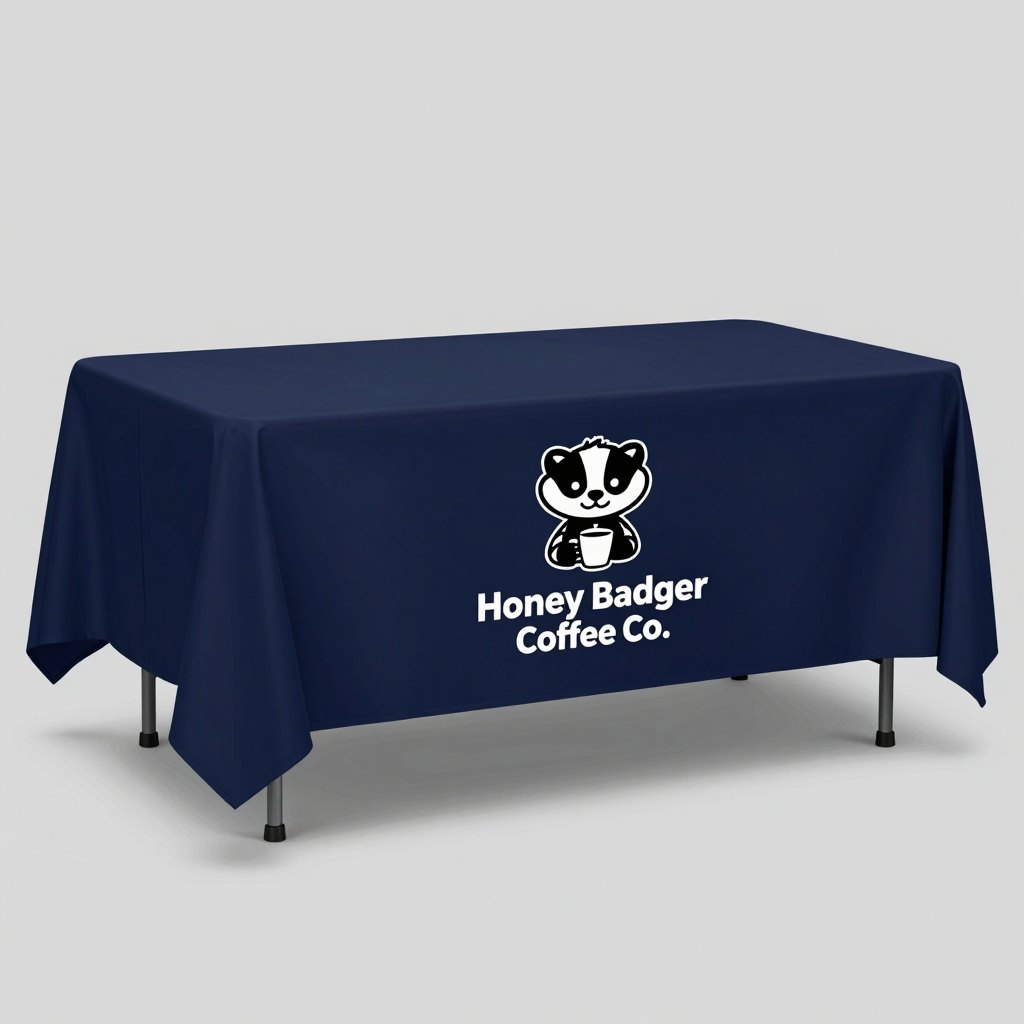
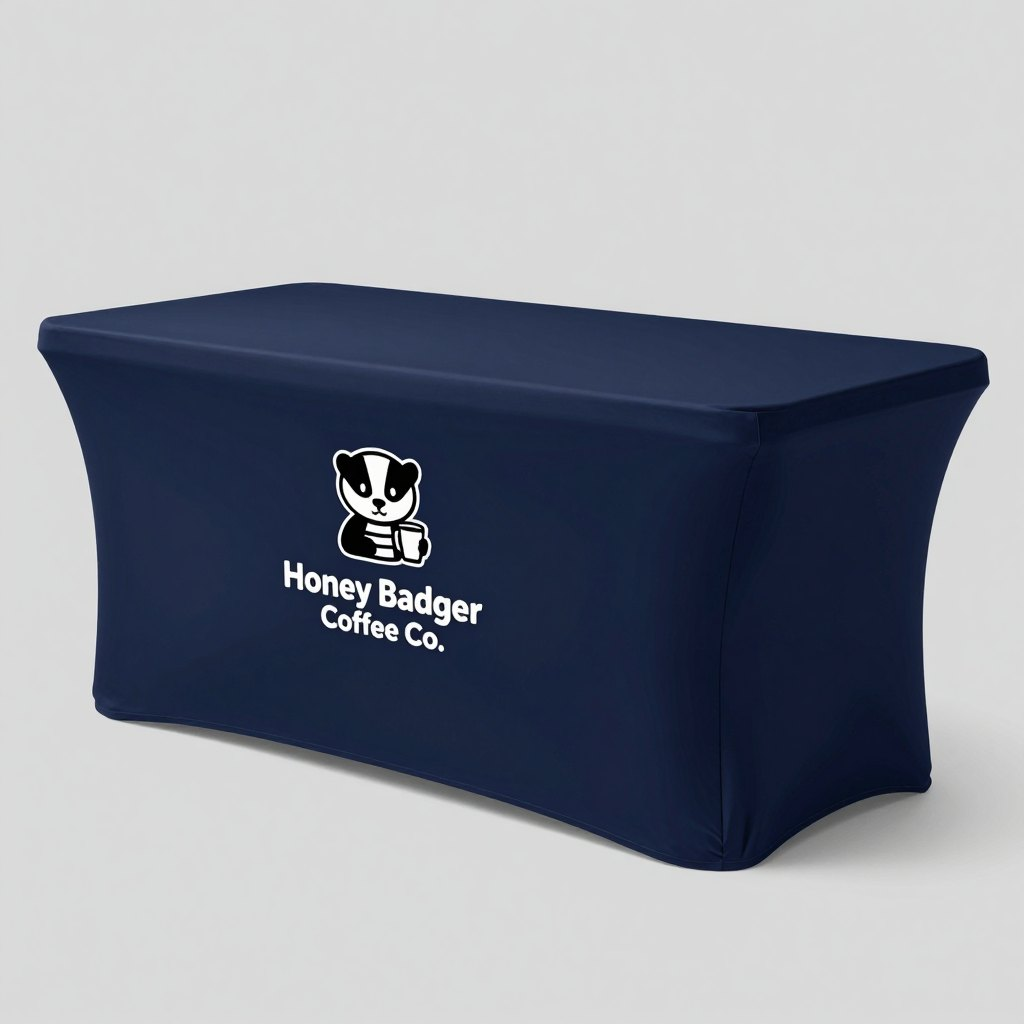
Replace table cover photo with a true fitted cover (#76)
* Replace table cover photo with a true fitted cover

The p-09-table-throw photo was a loose draped throw, not the fitted 6 ft
cover the brief asked for. Regenerate it as a tailored navy stretch-fitted
cover with a correctly spelled "Honey Badger Coffee Co." logo on the front,
on a plain light gray studio background (1024 jpg and webp, 400 sm webp).

Put the fitted wording back in the "Sample design" caption and the hero alt
text, and rebuild the pages that use the photo.

* Table cover photo: caption says stretch cover

The new photo shows a spandex stretch cover (snug top, flared legs), not a fitted cover, so the caption and alt text
say stretch cover and note that throws and fitted covers are also available.

Claude-Session: https://claude.ai/code/session_01MKoDUcjppXBpHwgJhSGGeU

---------

diff --git a/event-booth-bundles/index.html b/event-booth-bundles/index.html
@@ -77,7 +77,7 @@
   <p class="total"><span>Bought separately</span><span>$891</span></p>
   <div class="cta-row"><a class="btn btn-ink btn-sm" href="/?product=Something+else&amp;details=Outdoor+vendor+booth+bundle%3A+10%C3%9710+canopy+tent%2C+printed+top+and+valance%3B+6+ft+fitted+table+cover%3B+10.5+ft+feather+flag+with+ground+spike%3B+2%C3%974+ft+vinyl+banner+with+grommets#quote">Quote this bundle</a></div></div>
 </article><article class="bundle" id="indoor">
-  <div class="card-img sq"><picture><source srcset="/assets/img/p-09-table-throw-sm.webp 400w, /assets/img/p-09-table-throw.webp 1024w" sizes="(max-width: 640px) 92vw, (max-width: 1000px) 46vw, 360px" type="image/webp"><img src="/assets/img/p-09-table-throw.jpg" alt="Sample design: navy table throw on a 6 ft table with a Honey Badger Coffee Co. logo on the front" width="1024" height="1024" loading="lazy" decoding="async"></picture></div>
+  <div class="card-img sq"><picture><source srcset="/assets/img/p-09-table-throw-sm.webp 400w, /assets/img/p-09-table-throw.webp 1024w" sizes="(max-width: 640px) 92vw, (max-width: 1000px) 46vw, 360px" type="image/webp"><img src="/assets/img/p-09-table-throw.jpg" alt="Sample design: navy 6 ft stretch table cover with a Honey Badger Coffee Co. logo on the front" width="1024" height="1024" loading="lazy" decoding="async"></picture></div>
   <div class="bundle-body"><h2>Indoor expo booth</h2><p>For trade shows, career fairs, conferences and indoor expos: a sleek stretch table cover, a deluxe pull-up banner, a tabletop sign and a flag on a cross base.</p>
   <ul><li><a href="/table-throws/#order">8 ft stretch spandex table cover</a><b>$239</b></li><li><a href="/retractable-banners/#order">33×81 deluxe retractable banner, wide base</a><b>$149</b></li><li><a href="/tabletop-retractable-banners/#order">11.5×17.5 tabletop retractable banner</a><b>$69</b></li><li><a href="/feather-flags/#order">10.5 ft feather flag with cross base</a><b>$139</b></li></ul>
   <p class="total"><span>Bought separately</span><span>$596</span></p>

diff --git a/shop/index.html b/shop/index.html
@@ -101,7 +101,7 @@
   <div class="card-body"><h3><a href="/step-and-repeat-backdrops/">Step &amp; Repeat Backdrop</a></h3><p>8×8 or 10×8 with stand and case.</p><span class="price"><small>from</small> $419<small class="unit"> with stand</small></span>
   <div class="shop-btns"><a class="btn btn-y btn-sm" href="/step-and-repeat-backdrops/#order" aria-label="Start my order: Step &amp; Repeat Backdrop">Start my order</a><a class="more" href="/step-and-repeat-backdrops/">Details</a></div></div>
 </article><article class="card shop-card">
-  <a class="card-img" href="/table-throws/" tabindex="-1" aria-hidden="true"><picture><source srcset="/assets/img/p-09-table-throw-sm.webp 400w, /assets/img/p-09-table-throw.webp 1024w" sizes="(max-width: 480px) 92vw, (max-width: 800px) 46vw, (max-width: 1100px) 30vw, 270px" type="image/webp"><img src="/assets/img/p-09-table-throw.jpg" alt="Sample design: navy table throw on a 6 ft table with a Honey Badger Coffee Co. logo on the front" width="1024" height="1024" loading="lazy" decoding="async"></picture></a>
+  <a class="card-img" href="/table-throws/" tabindex="-1" aria-hidden="true"><picture><source srcset="/assets/img/p-09-table-throw-sm.webp 400w, /assets/img/p-09-table-throw.webp 1024w" sizes="(max-width: 480px) 92vw, (max-width: 800px) 46vw, (max-width: 1100px) 30vw, 270px" type="image/webp"><img src="/assets/img/p-09-table-throw.jpg" alt="Sample design: navy 6 ft stretch table cover with a Honey Badger Coffee Co. logo on the front" width="1024" height="1024" loading="lazy" decoding="async"></picture></a>
   <div class="card-body"><h3><a href="/table-throws/">Table Throw</a></h3><p>Throws, fitted or stretch covers for 6 or 8 ft tables.</p><span class="price"><small>from</small> $119<small class="unit"> each</small></span>
   <div class="shop-btns"><a class="btn btn-y btn-sm" href="/table-throws/#order" aria-label="Start my order: Table Throw">Start my order</a><a class="more" href="/table-throws/">Details</a></div></div>
 </article><article class="card shop-card">

diff --git a/retractable-banners/index.html b/retractable-banners/index.html
@@ -155,7 +155,7 @@
   <div class="card-body"><h3>Trade Show Booth Kit</h3>
   <div class="card-foot"><span class="price"><small>from</small> $339<small class="unit"> kit</small></span><span class="go">Sizes &amp; details <span aria-hidden="true">→</span></span></div></div>
 </a><a class="card" href="/table-throws/">
-  <div class="card-img sq"><picture><source srcset="/assets/img/p-09-table-throw-sm.webp 400w, /assets/img/p-09-table-throw.webp 1024w" sizes="(max-width: 760px) 46vw, (max-width: 1180px) 30vw, 260px" type="image/webp"><img src="/assets/img/p-09-table-throw.jpg" alt="Sample design: navy table throw on a 6 ft table with a Honey Badger Coffee Co. logo on the front" width="1024" height="1024" loading="lazy" decoding="async"></picture></div>
+  <div class="card-img sq"><picture><source srcset="/assets/img/p-09-table-throw-sm.webp 400w, /assets/img/p-09-table-throw.webp 1024w" sizes="(max-width: 760px) 46vw, (max-width: 1180px) 30vw, 260px" type="image/webp"><img src="/assets/img/p-09-table-throw.jpg" alt="Sample design: navy 6 ft stretch table cover with a Honey Badger Coffee Co. logo on the front" width="1024" height="1024" loading="lazy" decoding="async"></picture></div>
   <div class="card-body"><h3>Custom Table Throws</h3>
   <div class="card-foot"><span class="price"><small>from</small> $119<small class="unit"> each</small></span><span class="go">Sizes &amp; details <span aria-hidden="true">→</span></span></div></div>
 </a><a class="card" href="/step-and-repeat-backdrops/">

diff --git a/step-and-repeat-backdrops/index.html b/step-and-repeat-backdrops/index.html
@@ -155,7 +155,7 @@
   <div class="card-body"><h3>Retractable Banner Stands</h3>
   <div class="card-foot"><span class="price"><small>from</small> $109<small class="unit"> each</small></span><span class="go">Sizes &amp; details <span aria-hidden="true">→</span></span></div></div>
 </a><a class="card" href="/table-throws/">
-  <div class="card-img sq"><picture><source srcset="/assets/img/p-09-table-throw-sm.webp 400w, /assets/img/p-09-table-throw.webp 1024w" sizes="(max-width: 760px) 46vw, (max-width: 1180px) 30vw, 260px" type="image/webp"><img src="/assets/img/p-09-table-throw.jpg" alt="Sample design: navy table throw on a 6 ft table with a Honey Badger Coffee Co. logo on the front" width="1024" height="1024" loading="lazy" decoding="async"></picture></div>
+  <div class="card-img sq"><picture><source srcset="/assets/img/p-09-table-throw-sm.webp 400w, /assets/img/p-09-table-throw.webp 1024w" sizes="(max-width: 760px) 46vw, (max-width: 1180px) 30vw, 260px" type="image/webp"><img src="/assets/img/p-09-table-throw.jpg" alt="Sample design: navy 6 ft stretch table cover with a Honey Badger Coffee Co. logo on the front" width="1024" height="1024" loading="lazy" decoding="async"></picture></div>
   <div class="card-body"><h3>Custom Table Throws</h3>
   <div class="card-foot"><span class="price"><small>from</small> $119<small class="unit"> each</small></span><span class="go">Sizes &amp; details <span aria-hidden="true">→</span></span></div></div>
 </a><a class="card" href="/custom-canopy-tents/">

diff --git a/feather-flags/index.html b/feather-flags/index.html
@@ -155,7 +155,7 @@
   <div class="card-body"><h3>Trade Show Booth Kit</h3>
   <div class="card-foot"><span class="price"><small>from</small> $339<small class="unit"> kit</small></span><span class="go">Sizes &amp; details <span aria-hidden="true">→</span></span></div></div>
 </a><a class="card" href="/table-throws/">
-  <div class="card-img sq"><picture><source srcset="/assets/img/p-09-table-throw-sm.webp 400w, /assets/img/p-09-table-throw.webp 1024w" sizes="(max-width: 760px) 46vw, (max-width: 1180px) 30vw, 260px" type="image/webp"><img src="/assets/img/p-09-table-throw.jpg" alt="Sample design: navy table throw on a 6 ft table with a Honey Badger Coffee Co. logo on the front" width="1024" height="1024" loading="lazy" decoding="async"></picture></div>
+  <div class="card-img sq"><picture><source srcset="/assets/img/p-09-table-throw-sm.webp 400w, /assets/img/p-09-table-throw.webp 1024w" sizes="(max-width: 760px) 46vw, (max-width: 1180px) 30vw, 260px" type="image/webp"><img src="/assets/img/p-09-table-throw.jpg" alt="Sample design: navy 6 ft stretch table cover with a Honey Badger Coffee Co. logo on the front" width="1024" height="1024" loading="lazy" decoding="async"></picture></div>
   <div class="card-body"><h3>Custom Table Throws</h3>
   <div class="card-foot"><span class="price"><small>from</small> $119<small class="unit"> each</small></span><span class="go">Sizes &amp; details <span aria-hidden="true">→</span></span></div></div>
 </a><a class="card" href="/custom-canopy-tents/">

diff --git a/tabletop-retractable-banners/index.html b/tabletop-retractable-banners/index.html
@@ -155,7 +155,7 @@
   <div class="card-body"><h3>Retractable Banner Stands</h3>
   <div class="card-foot"><span class="price"><small>from</small> $109<small class="unit"> each</small></span><span class="go">Sizes &amp; details <span aria-hidden="true">→</span></span></div></div>
 </a><a class="card" href="/table-throws/">
-  <div class="card-img sq"><picture><source srcset="/assets/img/p-09-table-throw-sm.webp 400w, /assets/img/p-09-table-throw.webp 1024w" sizes="(max-width: 760px) 46vw, (max-width: 1180px) 30vw, 260px" type="image/webp"><img src="/assets/img/p-09-table-throw.jpg" alt="Sample design: navy table throw on a 6 ft table with a Honey Badger Coffee Co. logo on the front" width="1024" height="1024" loading="lazy" decoding="async"></picture></div>
+  <div class="card-img sq"><picture><source srcset="/assets/img/p-09-table-throw-sm.webp 400w, /assets/img/p-09-table-throw.webp 1024w" sizes="(max-width: 760px) 46vw, (max-width: 1180px) 30vw, 260px" type="image/webp"><img src="/assets/img/p-09-table-throw.jpg" alt="Sample design: navy 6 ft stretch table cover with a Honey Badger Coffee Co. logo on the front" width="1024" height="1024" loading="lazy" decoding="async"></picture></div>
   <div class="card-body"><h3>Custom Table Throws</h3>
   <div class="card-foot"><span class="price"><small>from</small> $119<small class="unit"> each</small></span><span class="go">Sizes &amp; details <span aria-hidden="true">→</span></span></div></div>
 </a><a class="card" href="/table-runners/">

diff --git a/index.html b/index.html
@@ -95,7 +95,7 @@
   <div class="card-foot"><span class="price"><small>from</small> $599<small class="unit"> kit</small></span><span class="go">Sizes &amp; details <span aria-hidden="true">→</span></span></div></div>
 </a>
 <a class="card" href="/table-throws/">
-  <div class="card-img sq"><picture><source srcset="/assets/img/p-09-table-throw-sm.webp 400w, /assets/img/p-09-table-throw.webp 1024w" sizes="(max-width: 760px) 46vw, (max-width: 1180px) 30vw, 230px" type="image/webp"><img src="/assets/img/p-09-table-throw.jpg" alt="Sample design: navy table throw on a 6 ft table with a Honey Badger Coffee Co. logo on the front" width="1024" height="1024" loading="lazy" decoding="async"></picture></div>
+  <div class="card-img sq"><picture><source srcset="/assets/img/p-09-table-throw-sm.webp 400w, /assets/img/p-09-table-throw.webp 1024w" sizes="(max-width: 760px) 46vw, (max-width: 1180px) 30vw, 230px" type="image/webp"><img src="/assets/img/p-09-table-throw.jpg" alt="Sample design: navy 6 ft stretch table cover with a Honey Badger Coffee Co. logo on the front" width="1024" height="1024" loading="lazy" decoding="async"></picture></div>
   <div class="card-body"><h3>Table Throw</h3><p>Throws, fitted or stretch covers for 6 or 8 ft tables.</p>
   <div class="card-foot"><span class="price"><small>from</small> $119<small class="unit"> each</small></span><span class="go">Sizes &amp; details <span aria-hidden="true">→</span></span></div></div>
 </a>

diff --git a/table-throws/index.html b/table-throws/index.html
@@ -73,7 +73,7 @@
         <ul class="proof" style="margin-top:20px"><li><b>Free proof</b>, 3 revisions</li><li><b>No payment</b> until you approve</li><li><b>Secure</b> Stripe checkout</li><li><b>10% off</b> your first order: code <b>FIRST10</b></li></ul>
         <p class="etsy-alt" style="margin-top:14px;font-size:15px;color:#BDBAB2">Prefer Etsy? <a href="https://www.etsy.com/listing/4597120773" target="_blank" rel="noopener">Order on Etsy</a></p>
       </div>
-      <figure class="phero-img sq"><picture><source srcset="/assets/img/p-09-table-throw.webp" type="image/webp"><img src="/assets/img/p-09-table-throw.jpg" alt="Sample design: navy table throw on a 6 ft table with a Honey Badger Coffee Co. logo on the front" width="1024" height="1024" fetchpriority="high"></picture><figcaption class="phero-cap">Sample design. Shown as a table throw on a 6 ft table. Fitted and stretch covers are also available.</figcaption></figure>
+      <figure class="phero-img sq"><picture><source srcset="/assets/img/p-09-table-throw.webp" type="image/webp"><img src="/assets/img/p-09-table-throw.jpg" alt="Sample design: navy 6 ft stretch table cover with a Honey Badger Coffee Co. logo on the front" width="1024" height="1024" fetchpriority="high"></picture><figcaption class="phero-cap">Sample design. Shown as a 6 ft stretch cover. Throws and fitted covers are also available.</figcaption></figure>
     </div>
   </div>
 </section>

diff --git a/table-runners/index.html b/table-runners/index.html
@@ -151,7 +151,7 @@
 </section>
 <section class="sec paper">
   <div class="wrap"><h2 class="group">Related products</h2><div class="grid grid-3"><a class="card" href="/table-throws/">
-  <div class="card-img sq"><picture><source srcset="/assets/img/p-09-table-throw-sm.webp 400w, /assets/img/p-09-table-throw.webp 1024w" sizes="(max-width: 760px) 46vw, (max-width: 1180px) 30vw, 260px" type="image/webp"><img src="/assets/img/p-09-table-throw.jpg" alt="Sample design: navy table throw on a 6 ft table with a Honey Badger Coffee Co. logo on the front" width="1024" height="1024" loading="lazy" decoding="async"></picture></div>
+  <div class="card-img sq"><picture><source srcset="/assets/img/p-09-table-throw-sm.webp 400w, /assets/img/p-09-table-throw.webp 1024w" sizes="(max-width: 760px) 46vw, (max-width: 1180px) 30vw, 260px" type="image/webp"><img src="/assets/img/p-09-table-throw.jpg" alt="Sample design: navy 6 ft stretch table cover with a Honey Badger Coffee Co. logo on the front" width="1024" height="1024" loading="lazy" decoding="async"></picture></div>
   <div class="card-body"><h3>Custom Table Throws</h3>
   <div class="card-foot"><span class="price"><small>from</small> $119<small class="unit"> each</small></span><span class="go">Sizes &amp; details <span aria-hidden="true">→</span></span></div></div>
 </a><a class="card" href="/tabletop-retractable-banners/">

diff --git a/trade-show-booth-kit/index.html b/trade-show-booth-kit/index.html
@@ -151,7 +151,7 @@
 </section>
 <section class="sec paper">
   <div class="wrap"><h2 class="group">Related products</h2><div class="grid grid-3"><a class="card" href="/table-throws/">
-  <div class="card-img sq"><picture><source srcset="/assets/img/p-09-table-throw-sm.webp 400w, /assets/img/p-09-table-throw.webp 1024w" sizes="(max-width: 760px) 46vw, (max-width: 1180px) 30vw, 260px" type="image/webp"><img src="/assets/img/p-09-table-throw.jpg" alt="Sample design: navy table throw on a 6 ft table with a Honey Badger Coffee Co. logo on the front" width="1024" height="1024" loading="lazy" decoding="async"></picture></div>
+  <div class="card-img sq"><picture><source srcset="/assets/img/p-09-table-throw-sm.webp 400w, /assets/img/p-09-table-throw.webp 1024w" sizes="(max-width: 760px) 46vw, (max-width: 1180px) 30vw, 260px" type="image/webp"><img src="/assets/img/p-09-table-throw.jpg" alt="Sample design: navy 6 ft stretch table cover with a Honey Badger Coffee Co. logo on the front" width="1024" height="1024" loading="lazy" decoding="async"></picture></div>
   <div class="card-body"><h3>Custom Table Throws</h3>
   <div class="card-foot"><span class="price"><small>from</small> $119<small class="unit"> each</small></span><span class="go">Sizes &amp; details <span aria-hidden="true">→</span></span></div></div>
 </a><a class="card" href="/retractable-banners/">

diff --git a/custom-canopy-tents/index.html b/custom-canopy-tents/index.html
@@ -160,7 +160,7 @@
 </section>
 <section class="sec paper">
   <div class="wrap"><h2 class="group">Related products</h2><div class="grid grid-3"><a class="card" href="/table-throws/">
-  <div class="card-img sq"><picture><source srcset="/assets/img/p-09-table-throw-sm.webp 400w, /assets/img/p-09-table-throw.webp 1024w" sizes="(max-width: 760px) 46vw, (max-width: 1180px) 30vw, 260px" type="image/webp"><img src="/assets/img/p-09-table-throw.jpg" alt="Sample design: navy table throw on a 6 ft table with a Honey Badger Coffee Co. logo on the front" width="1024" height="1024" loading="lazy" decoding="async"></picture></div>
+  <div class="card-img sq"><picture><source srcset="/assets/img/p-09-table-throw-sm.webp 400w, /assets/img/p-09-table-throw.webp 1024w" sizes="(max-width: 760px) 46vw, (max-width: 1180px) 30vw, 260px" type="image/webp"><img src="/assets/img/p-09-table-throw.jpg" alt="Sample design: navy 6 ft stretch table cover with a Honey Badger Coffee Co. logo on the front" width="1024" height="1024" loading="lazy" decoding="async"></picture></div>
   <div class="card-body"><h3>Custom Table Throws</h3>
   <div class="card-foot"><span class="price"><small>from</small> $119<small class="unit"> each</small></span><span class="go">Sizes &amp; details <span aria-hidden="true">→</span></span></div></div>
 </a><a class="card" href="/feather-flags/">

diff --git a/src/site-src-pages.py b/src/site-src-pages.py
@@ -386,7 +386,7 @@ ALT2={ # alt text for the in-use example photo (2.jpg) and close-up (3.jpg) per 
 # Hero photos that are catalog-style sample designs get a caption under the photo.
 SAMPLE_CAP={
  '04-feather-flag':'Sample design. Shown in three sizes with cross bases.',
- '09-table-throw':'Sample design. Shown as a table throw on a 6 ft table. Fitted and stretch covers are also available.',
+ '09-table-throw':'Sample design. Shown as a 6 ft stretch cover. Throws and fitted covers are also available.',
  '10-canopy-tent':'Sample design. Shown with optional walls, a table cover and a feather flag.',
 }
 # Alt text for the current Etsy listing main photo (p-*.jpg). Gallery shots that Etsy did not expose stay on their own alts above.
@@ -398,7 +398,7 @@ HERO_ALT={
  '06-car-magnet':'Bulldog Lawn Care car magnet on a white pickup truck door',
  '07-real-estate-sign':'Lionheart Realty for-sale sign with an Open House Sunday rider in a front yard',
  '08-step-and-repeat':'Purple Westview Wolves Spring Gala 2026 step and repeat backdrop on a red carpet in a gym',
- '09-table-throw':'Sample design: navy table throw on a 6 ft table with a Honey Badger Coffee Co. logo on the front',
+ '09-table-throw':'Sample design: navy 6 ft stretch table cover with a Honey Badger Coffee Co. logo on the front',
  '10-canopy-tent':'Sample design: maroon and black Copperleaf Kickers soccer club 10×10 canopy tent with printed walls, a matching table cover and a feather flag',
  '11-christmas-family-banner':'Merry Christmas from the Martinez Family snowman banner on a decorated porch rail',
  '12-senior-night-banner':'Senior night banner for Jake Morrison, number 12, Oak Ridge Rams, on a football field fence',
